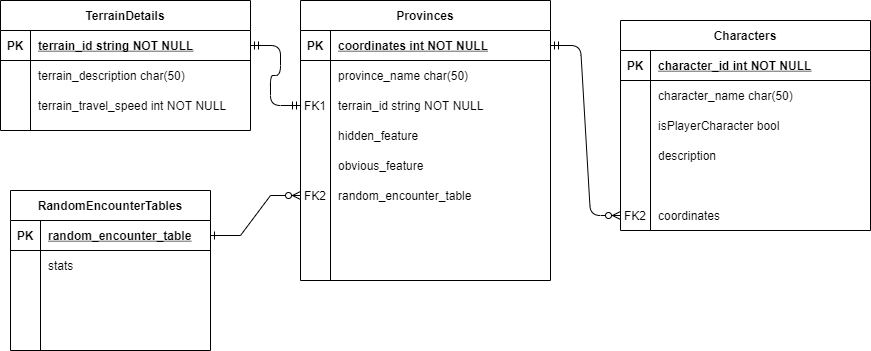
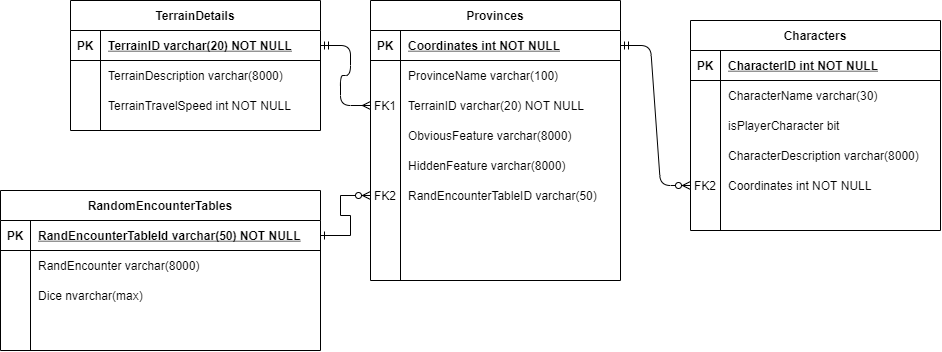
Update database ERD to reflect current state of the database

diff --git a/README.md b/README.md
@@ -71,8 +71,18 @@ In the next sprint I will be covering user stories 1.3 and 1.4
 ### Goals
 
 - [ ] Complete user story 1.3 See Travel Times
-- [ ] Complete user story 1.4 Automatically Roll Encounters
+- [x] Complete user story 1.4 Automatically Roll Encounters
 
 ### Pre-Sprint Project Board
 
 ![](readme_images/sprint3_presprint.png)
+
+### Sprint Review
+
+Completed user story 4
+
+### Sprint Retrospective
+
+Was quite heavily blocked by inexperience with working with JSON in C#, also by altering my database. I added a column to the RandomEncounters table to hold the dice associated with that set of encounters, which made the code around doing this somewhat cleaner. Spent a good hour trying to edit the database, then burn it down such that I could build it again. 
+
+In the future I should become more familiar with methods for dealing with JSON in c#.
